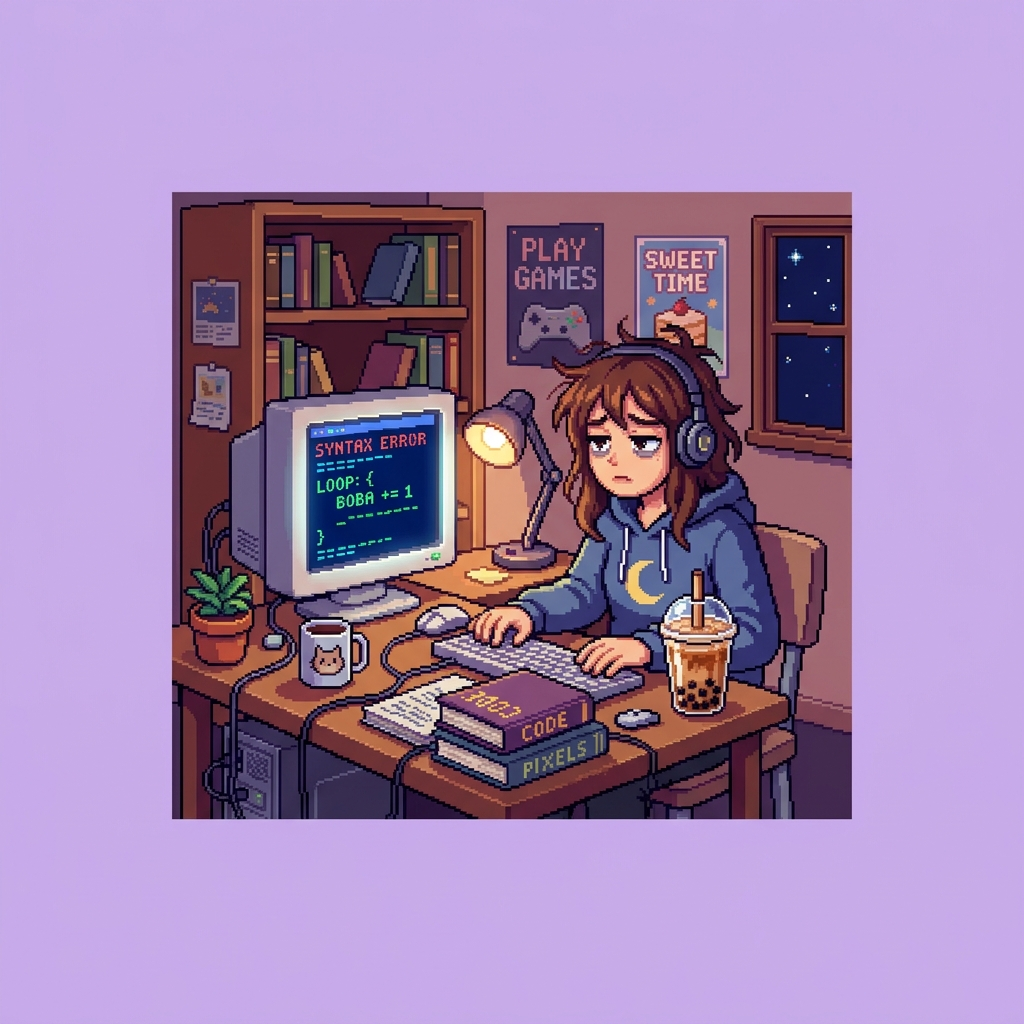
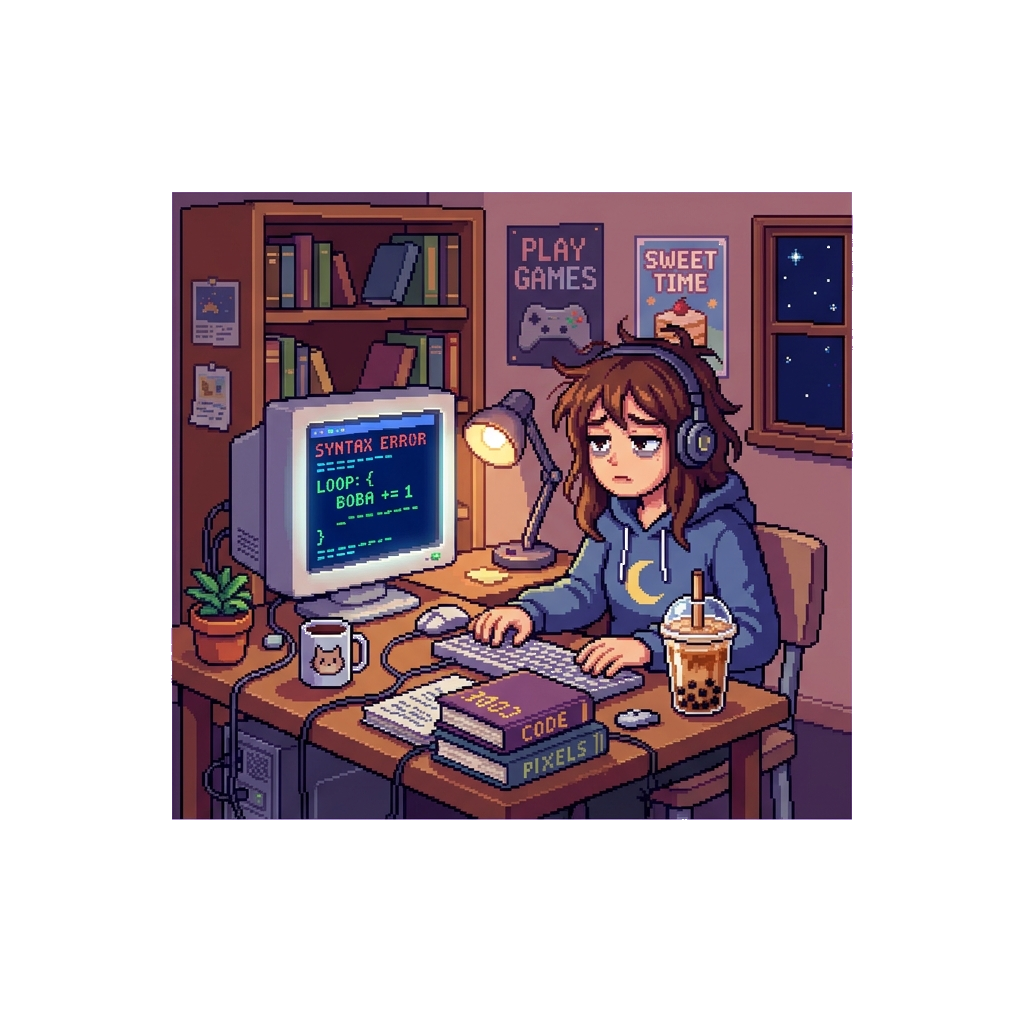
feat: restore authentic Cake.me meadow and map canvas backgrounds with seamless transparent pixel sprites

diff --git a/src/components/QuizRunner.tsx b/src/components/QuizRunner.tsx
@@ -146,11 +146,14 @@ export function QuizRunner({ config }: QuizRunnerProps) {
   const progressPercent = Math.round(((currentQuestionIndex + 1) / totalQuestions) * 100);
 
   return (
-    <div className="min-h-screen bg-[#FDF8EE] text-[#272e27] flex flex-col justify-between font-sans">
-      {/* Centered Mobile-First Stage with exact OOOPEN Lab canvas */}
-      <div
-        className="w-full max-w-[500px] mx-auto min-h-screen flex flex-col justify-between relative bg-[#FDF8EE]"
-      >
+    <div
+      className="min-h-screen text-[#272e27] flex flex-col justify-between font-sans bg-cover bg-center bg-no-repeat"
+      style={{
+        backgroundImage: gameState === 'intro' ? "url('/images/ooopen_bg.jpg')" : "url('/images/q_bg.jpg')",
+      }}
+    >
+      {/* Centered Mobile-First Stage */}
+      <div className="w-full max-w-[500px] mx-auto min-h-screen flex flex-col justify-between relative">
         
         {/* Main Interactive Container */}
         <div className="flex-1 flex flex-col justify-between">
@@ -158,7 +161,7 @@ export function QuizRunner({ config }: QuizRunnerProps) {
           {/* Top Bar with 1:1 Capsule Progress */}
           <div className="px-5 pt-5 pb-2 flex items-center justify-between space-x-3">
             <div className="flex-1">
-              <div className="h-3 bg-[#EAE5D9] rounded-full border-2 border-[#272e27] overflow-hidden p-0.5">
+              <div className="h-3 bg-white/80 rounded-full border-2 border-[#272e27] overflow-hidden p-0.5 shadow-sm">
                 <div
                   className="h-full bg-[#13ab67] rounded-full transition-all duration-300"
                   style={{ width: `${gameState === 'intro' ? 10 : gameState === 'result' ? 100 : progressPercent}%` }}
@@ -167,7 +170,7 @@ export function QuizRunner({ config }: QuizRunnerProps) {
             </div>
 
             {gameState === 'playing' && (
-              <span className="font-pixel text-[9px] text-[#272e27] bg-[#EAE5D9] px-2 py-0.5 rounded-full border border-[#272e27]">
+              <span className="font-pixel text-[9px] text-[#272e27] bg-white/90 px-2 py-0.5 rounded-full border border-[#272e27] shadow-sm">
                 {currentQuestionIndex + 1}/{totalQuestions}
               </span>
             )}
@@ -176,25 +179,26 @@ export function QuizRunner({ config }: QuizRunnerProps) {
           {/* STATE 1: INTRO (Pixel Art Hero Showcase) */}
           {gameState === 'intro' && (
             <div className="flex-1 flex flex-col justify-between p-5">
-              <div className="relative w-full max-w-[260px] h-[240px] mx-auto rounded-3xl overflow-hidden border-4 border-[#272e27] shadow-[5px_5px_0px_#272e27] bg-[#F8F3E8] mt-2 flex items-center justify-center">
+              {/* Seamless Sprite floating directly on meadow */}
+              <div className="relative w-full max-w-[280px] h-[240px] mx-auto flex items-center justify-center my-auto">
                 <Image
                   src="/images/pixel/scene_00_cover.png"
                   alt="Workplace Radar 2026 Cover"
                   fill
-                  className="object-contain p-2"
+                  className="object-contain drop-shadow-[0_4px_8px_rgba(0,0,0,0.15)]"
                   style={{ imageRendering: 'pixelated' }}
                   priority
                 />
               </div>
 
-              <div className="my-auto py-5 text-center px-4 bg-white rounded-2xl border-3 border-[#272e27] my-3 shadow-[4px_4px_0px_#272e27]">
+              <div className="py-4 text-center px-4 bg-white/95 rounded-2xl border-3 border-[#272e27] my-3 shadow-[4px_4px_0px_#272e27]">
                 <span className="font-pixel text-[8px] bg-[#FFD482] text-[#272e27] px-2.5 py-1 rounded border border-[#272e27] uppercase">
                   WORKPLACE RADAR 2026
                 </span>
                 <h1 className="text-xs sm:text-sm font-pixel uppercase text-[#272e27] tracking-tight leading-relaxed mt-3 mb-2">
                   {config.title}
                 </h1>
-                <p className="text-xs text-[#555] font-medium leading-relaxed max-w-xs mx-auto">
+                <p className="text-xs text-[#444] font-medium leading-relaxed max-w-xs mx-auto">
                   {config.subtitle}
                 </p>
               </div>
@@ -213,24 +217,21 @@ export function QuizRunner({ config }: QuizRunnerProps) {
           {/* STATE 2: PLAYING (Scene Village + Question + 2 Black Pill Options) */}
           {gameState === 'playing' && currentQ && (
             <div className="flex-1 flex flex-col justify-between p-4 sm:p-5">
-              {/* Question Scene Illustration in a Cute Cake.me Card */}
-              <div className="relative w-full max-w-[250px] h-[210px] mx-auto rounded-3xl overflow-hidden border-4 border-[#272e27] shadow-[5px_5px_0px_#272e27] bg-[#F8F3E8] flex items-center justify-center mt-1">
+              {/* Question Scene: SEAMLESS TRANSPARENT SPRITE ON RETRO MAP */}
+              <div className="relative w-full max-w-[260px] h-[210px] mx-auto flex items-center justify-center mt-1">
                 <Image
                   src={currentQ.imageSrc}
                   alt={currentQ.scenarioTitle}
                   fill
-                  className="object-contain p-2"
+                  className="object-contain drop-shadow-[0_4px_6px_rgba(0,0,0,0.12)]"
                   style={{ imageRendering: 'pixelated' }}
                   priority
                 />
-                <div className="absolute bottom-1 right-1 bg-[#272e27] text-white px-2 py-0.5 rounded text-[7px] font-pixel border border-white/20">
-                  {currentQ.scenarioTitle}
-                </div>
               </div>
 
-              {/* Seamless Centered Question */}
-              <div className="my-3 text-center px-2">
-                <div className="inline-block text-[8px] font-pixel text-[#13ab67] bg-white px-2.5 py-0.5 rounded-full border border-[#272e27]/20 uppercase tracking-wider mb-2 shadow-xs">
+              {/* Speech Bubble Question Card */}
+              <div className="my-2 text-center p-3.5 bg-white/95 border-3 border-[#272e27] rounded-2xl shadow-[4px_4px_0px_#272e27]">
+                <div className="inline-block text-[8px] font-pixel text-[#13ab67] bg-[#EAE5D9] px-2.5 py-0.5 rounded-full border border-[#272e27]/20 uppercase tracking-wider mb-1.5 shadow-xs">
                   {currentQ.categoryBadge}
                 </div>
                 <h2 className="text-xs sm:text-sm font-bold text-[#272e27] leading-snug">

diff --git a/scripts/make_transparent.py b/scripts/make_transparent.py
@@ -1,0 +1,27 @@
+import os, glob
+from PIL import Image
+
+def remove_background(png_path):
+    img = Image.open(png_path).convert('RGBA')
+    width, height = img.size
+    
+    # Check corners to get background color
+    bg_r, bg_g, bg_b, _ = img.getpixel((5, 5))
+    
+    pixels = img.load()
+    # BFS or color distance check from corners
+    # Since background is very uniform solid color:
+    for y in range(height):
+        for x in range(width):
+            r, g, b, a = pixels[x, y]
+            # If color is close to corner background color (euclidean distance < 35)
+            dist = ((r - bg_r)**2 + (g - bg_g)**2 + (b - bg_b)**2)**0.5
+            if dist < 28:
+                pixels[x, y] = (0, 0, 0, 0)
+                
+    img.save(png_path, format='PNG')
+    print(f"Processed: {png_path}")
+
+if __name__ == '__main__':
+    for path in glob.glob('/home/ubuntu/white-label-quiz/public/images/pixel/scene_*.png'):
+        remove_background(path)
